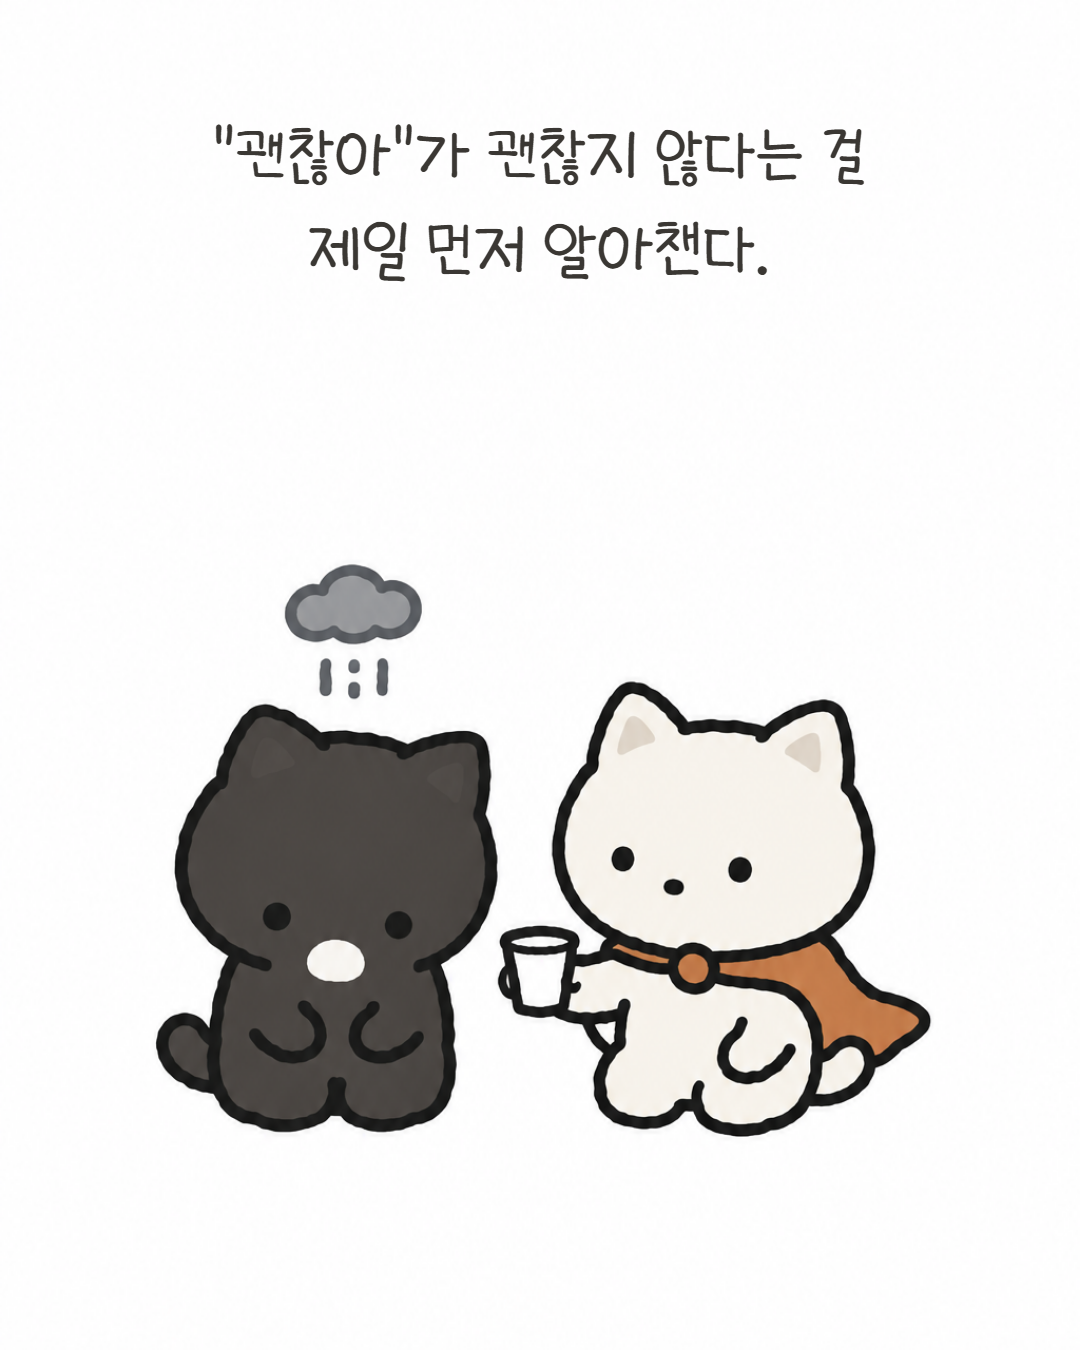
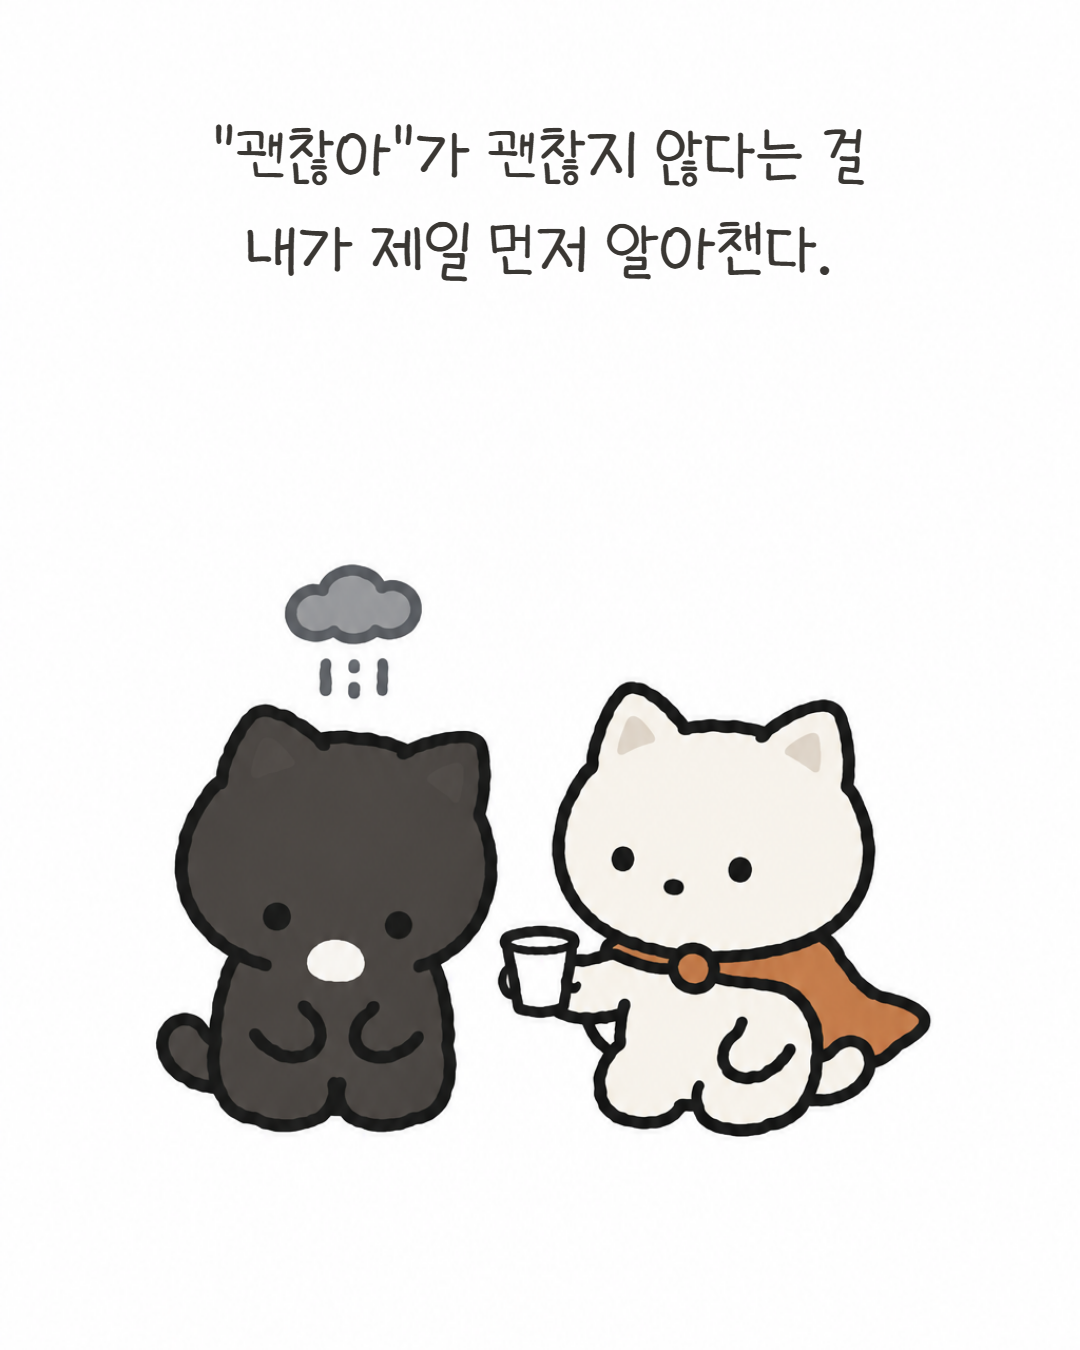
내레이션 1인칭으로 재작성, 이모지 전부 제거, 스킬에 규칙 추가

Changed region(s): [[0.2444, 0.1556, 0.7639, 0.2178]]

diff --git a/episodes/ep01/compose.html b/episodes/ep01/compose.html
@@ -31,41 +31,41 @@
 
 <section id="s1">
   <img src="img/cut1.png" alt="">
-  <p class="nar">이 사람들은 마음이 읽힌다.<br>상대가 말을 꺼내기 전에, 먼저.</p>
+  <p class="nar">나는 마음이 읽힌다.<br>상대가 말을 꺼내기 전에, 먼저.</p>
 </section>
 
 <section id="s2">
   <img src="img/cut2.png" alt="">
-  <p class="nar">"괜찮아"가 괜찮지 않다는 걸<br>제일 먼저 알아챈다.</p>
+  <p class="nar">"괜찮아"가 괜찮지 않다는 걸<br>내가 제일 먼저 알아챈다.</p>
 </section>
 
 <section id="s3">
   <img src="img/cut3.png" alt="">
-  <p class="nar">잔소리 안에 든 걱정까지 읽힌다.<br>그래서 그냥 "응" 하고 만다.</p>
+  <p class="nar">잔소리 안에 든 걱정까지 읽힌다.<br>그래서 나는 그냥 "응" 하고 만다.</p>
 </section>
 
 <section id="s4" class="dim">
   <img src="img/cut4.png" alt="">
-  <p class="nar">단톡방에 "ㅇㅇ" 두 글자가 오면<br>거기 담긴 마음까지 읽는다.</p>
+  <p class="nar">단톡방에 "ㅇㅇ" 두 글자가 오면<br>나는 거기 담긴 마음까지 읽는다.</p>
   <p class="mind" style="right:90px;top:330px;text-align:right">…화났나.<br>아까 그 말 때문인가.</p>
   <p class="mind" style="right:80px;bottom:60px;font-size:38px;color:#A69E93">(사실 아무것도 안 담겨 있음)</p>
 </section>
 
 <section id="s5" class="dim">
   <img src="img/cut5.png" alt="">
-  <p class="nar">동생은 말한다. "그냥 물어보면 되잖아."<br>그게 되면 초능력자가 아니지.</p>
+  <p class="nar">동생은 말한다. "그냥 물어보면 되잖아."<br>그게 되면 나는 초능력자가 아니지.</p>
 </section>
 
 <section id="s6" class="dim">
   <img src="img/cut6.png" alt="">
-  <p class="nar">남의 마음은 다 읽으면서<br>내 마음은 제일 늦게 읽는다.</p>
+  <p class="nar">남의 마음은 다 읽으면서<br>정작 내 마음은 제일 늦게 읽는다.</p>
   <p class="mind" style="left:760px;top:940px">나 지금…<br>괜찮은 건가</p>
 </section>
 
 <section id="s7">
   <img src="img/cut7.png" alt="">
-  <p class="nar">그래도 그 능력 덕분에,<br>누군가는 오늘 혼자가 아니었다.</p>
-  <p class="cta">당신 곁의 INFP를 태그해 주세요 🦸</p>
+  <p class="nar">그래도 내 능력 덕분에,<br>누군가는 오늘 혼자가 아니었다.</p>
+  <p class="cta">당신 곁의 INFP를 태그해 주세요</p>
 </section>
 
 <script>

diff --git a/episodes/ep01/align-compare.html b/episodes/ep01/align-compare.html
@@ -36,10 +36,10 @@
 </main>
 <script>
 const CUTS = [
-  ['1 초능력 설명', '', `<img src="img/cut1.png"><p class="nar">이 사람들은 마음이 읽힌다.<br>상대가 말을 꺼내기 전에, 먼저.</p>`],
-  ['3 장점 — 엄마 (긴 문장)', '', `<img src="img/cut3.png"><p class="nar">잔소리 안에 든 걱정까지 읽힌다.<br>그래서 그냥 "응" 하고 만다.</p>`],
-  ['4 공유 컷 (속마음 포함)', 'dim', `<img src="img/cut4.png"><p class="nar">단톡방에 "ㅇㅇ" 두 글자가 오면<br>거기 담긴 마음까지 읽는다.</p><p class="mind" style="right:90px;top:330px;text-align:right">…화났나.<br>아까 그 말 때문인가.</p><p class="mind" style="right:80px;bottom:60px;font-size:38px;color:#A69E93">(사실 아무것도 안 담겨 있음)</p>`],
-  ['7 마무리 + CTA', '', `<img src="img/cut7.png"><p class="nar">그래도 그 능력 덕분에,<br>누군가는 오늘 혼자가 아니었다.</p><p class="cta">당신 곁의 INFP를 태그해 주세요 🦸</p>`],
+  ['1 초능력 설명', '', `<img src="img/cut1.png"><p class="nar">나는 마음이 읽힌다.<br>상대가 말을 꺼내기 전에, 먼저.</p>`],
+  ['3 장점 — 엄마 (긴 문장)', '', `<img src="img/cut3.png"><p class="nar">잔소리 안에 든 걱정까지 읽힌다.<br>그래서 나는 그냥 "응" 하고 만다.</p>`],
+  ['4 공유 컷 (속마음 포함)', 'dim', `<img src="img/cut4.png"><p class="nar">단톡방에 "ㅇㅇ" 두 글자가 오면<br>나는 거기 담긴 마음까지 읽는다.</p><p class="mind" style="right:90px;top:330px;text-align:right">…화났나.<br>아까 그 말 때문인가.</p><p class="mind" style="right:80px;bottom:60px;font-size:38px;color:#A69E93">(사실 아무것도 안 담겨 있음)</p>`],
+  ['7 마무리 + CTA', '', `<img src="img/cut7.png"><p class="nar">그래도 내 능력 덕분에,<br>누군가는 오늘 혼자가 아니었다.</p><p class="cta">당신 곁의 INFP를 태그해 주세요</p>`],
 ];
 document.getElementById('cards').innerHTML = CUTS.map(([t, cls, html]) => `
 <div class="card"><h2>${t}</h2><div class="row">

diff --git a/episodes/ep01/fonts-compare.html b/episodes/ep01/fonts-compare.html
@@ -58,11 +58,11 @@ const FONTS = [
   ['배달의민족 주아 (대조군)', 'BMJua', 'OFL'],
 ];
 const CUT4 = `<img src="img/cut4.png" alt="">
-  <p class="nar">단톡방에 "ㅇㅇ" 두 글자가 오면<br>거기 담긴 마음까지 읽는다.</p>
+  <p class="nar">단톡방에 "ㅇㅇ" 두 글자가 오면<br>나는 거기 담긴 마음까지 읽는다.</p>
   <p class="mind" style="right:90px;top:330px;text-align:right">…화났나.<br>아까 그 말 때문인가.</p>
   <p class="mind" style="right:80px;bottom:60px;font-size:38px;color:#A69E93">(사실 아무것도 안 담겨 있음)</p>`;
 const CUT5 = `<img src="img/cut5.png" alt="">
-  <p class="nar">동생은 말한다. "그냥 물어보면 되잖아."<br>그게 되면 초능력자가 아니지.</p>`;
+  <p class="nar">동생은 말한다. "그냥 물어보면 되잖아."<br>그게 되면 나는 초능력자가 아니지.</p>`;
 document.getElementById('cards').innerHTML = FONTS.map(([name, fam, lic], i) => `
 <div class="card">
   <h2>${i+1}. ${name}<small>${fam} · ${lic}</small></h2>

diff --git a/assets/fonts.html b/assets/fonts.html
@@ -81,7 +81,7 @@ document.getElementById('cards').innerHTML = FONTS.map(([name, fam, lic, tw], i)
       <div class="fig2"><img src="${IMG}" alt=""></div>
     </div>
   </div>
-  <p class="sample">당신 곁의 INFP를 태그해 주세요. 그 사람은 오늘도 누군가의 하루를 조용히 구했을 거예요 🦸 0123456789 ?!</p>
+  <p class="sample">당신 곁의 INFP를 태그해 주세요. 그 사람은 오늘도 누군가의 하루를 조용히 구했을 거예요. 0123456789 ?!</p>
 </div>`).join('');
 </script>
 </body>

diff --git a/episodes/ep01/conti.md b/episodes/ep01/conti.md
@@ -5,12 +5,12 @@
 | # | 장면 | 내레이션 (상단) | 속마음 (캐릭터 옆, 회색) | 프롬프트 요점 |
 |---|---|---|---|---|
 | 표지 | 보리, 망토, POWER ACTIVATED 포즈 | 제목 3줄 + 부제 | — | 하단 중앙, 상단 55% 비움, high |
-| 1 | 보리 망토 착용. 정면 응시, 눈 주위 작은 반짝이 | 이 사람들은 마음이 읽힌다.<br>상대가 말을 꺼내기 전에, 먼저. | — | 하단, 상단 40% 비움 |
-| 2 | 먹물이 풀죽어 앉아 있고(작은 먹구름) 보리가 망토 차림으로 말없이 옆에 앉아 음료 하나를 건넴 | "괜찮아"가 괜찮지 않다는 걸<br>제일 먼저 알아챈다. | — | 두 캐릭터 하단, 컵 하나 |
-| 3 | 엄마 미숙이 팔짱 끼고 잔소리 자세, 보리(망토)는 고개 끄덕. 둘 사이 작은 하트 | 잔소리 안에 든 걱정까지 읽힌다.<br>그래서 그냥 "응" 하고 만다. | — | 미숙 1.2배, 웃는 눈 |
-| 4 | **공유 컷.** 보리(망토 없음) 바닥에 엎드려 폰을 쥐고 있음. 머리 위 작은 먹구름, 땀방울 | 단톡방에 "ㅇㅇ" 두 글자가 오면<br>거기 담긴 마음까지 읽는다. | …화났나.<br>아까 그 말 때문인가.<br>(사실 아무것도 안 담겨 있음) | 저채도, 폰 화면 비움 |
-| 5 | 동생 콩이 과자를 먹으며 태평하게 서 있고, 보리는 축 처져 땀방울 | 동생은 말한다. "그냥 물어보면 되잖아."<br>그게 되면 초능력자가 아니지. | — | 콩 0.8배, 정수리 털 3가닥 |
-| 6 | 보리 혼자 웅크려 앉음. 먹구름, 눈물 한 줄 | 남의 마음은 다 읽으면서<br>내 마음은 제일 늦게 읽는다. | 나 지금…<br>괜찮은 건가 | 저채도, 여백 많이 |
-| 7 | 보리(망토) + 먹물 나란히 앉아 뒷모습 반쯤, 위에 작은 하트·반짝이 | 그래도 그 능력 덕분에,<br>누군가는 오늘 혼자가 아니었다. | 당신 곁의 INFP를 태그해 주세요 🦸 | 포인트 컬러 복귀 |
+| 1 | 보리 망토 착용. 정면 응시, 눈 주위 작은 반짝이 | 나는 마음이 읽힌다.<br>상대가 말을 꺼내기 전에, 먼저. | — | 하단, 상단 40% 비움 |
+| 2 | 먹물이 풀죽어 앉아 있고(작은 먹구름) 보리가 망토 차림으로 말없이 옆에 앉아 음료 하나를 건넴 | "괜찮아"가 괜찮지 않다는 걸<br>내가 제일 먼저 알아챈다. | — | 두 캐릭터 하단, 컵 하나 |
+| 3 | 엄마 미숙이 팔짱 끼고 잔소리 자세, 보리(망토)는 고개 끄덕. 둘 사이 작은 하트 | 잔소리 안에 든 걱정까지 읽힌다.<br>그래서 나는 그냥 "응" 하고 만다. | — | 미숙 1.2배, 웃는 눈 |
+| 4 | **공유 컷.** 보리(망토 없음) 바닥에 엎드려 폰을 쥐고 있음. 머리 위 작은 먹구름, 땀방울 | 단톡방에 "ㅇㅇ" 두 글자가 오면<br>나는 거기 담긴 마음까지 읽는다. | …화났나.<br>아까 그 말 때문인가.<br>(사실 아무것도 안 담겨 있음) | 저채도, 폰 화면 비움 |
+| 5 | 동생 콩이 과자를 먹으며 태평하게 서 있고, 보리는 축 처져 땀방울 | 동생은 말한다. "그냥 물어보면 되잖아."<br>그게 되면 나는 초능력자가 아니지. | — | 콩 0.8배, 정수리 털 3가닥 |
+| 6 | 보리 혼자 웅크려 앉음. 먹구름, 눈물 한 줄 | 남의 마음은 다 읽으면서<br>정작 내 마음은 제일 늦게 읽는다. | 나 지금…<br>괜찮은 건가 | 저채도, 여백 많이 |
+| 7 | 보리(망토) + 먹물 나란히 앉아 뒷모습 반쯤, 위에 작은 하트·반짝이 | 그래도 내 능력 덕분에,<br>누군가는 오늘 혼자가 아니었다. | 당신 곁의 INFP를 태그해 주세요 | 포인트 컬러 복귀 |
 
-톤: 1–3 밝음 → 4–6 저채도 → 7 망토 복귀. 말풍선 없음, MBTI는 표지 부제와 7컷 CTA에만.
+톤: 1–3 밝음 → 4–6 저채도 → 7 망토 복귀. 말풍선 없음, 이모지 없음, 내레이션·속마음은 1인칭. MBTI는 표지 부제와 7컷 CTA에만.

diff --git a/.claude/skills/make-episode/SKILL.md b/.claude/skills/make-episode/SKILL.md
@@ -12,6 +12,8 @@ description: 「당신은 약간 초능력자?」 에피소드 1편 제작 — M
 - **제목** = 그 유형의 통용되는 단점을 능력처럼 바꾼 후킹 카피. 형식 `[…] 초능력자`. 예: INFP 「알고 싶지 않은 마음까지 읽는 초능력자」. 시리즈명 「당신은 약간 초능력자?」는 표지에 넣지 않는다.
 - **부제** = `- INFP -` 소문자 크기로 제목 아래.
 - 내용은 해당 유형 독자가 "이거 나잖아"라고 느껴야 한다. 유형 밈이 아니라 **구체적 상황**(약치기그림식)으로 쓴다.
+- 내레이션·속마음은 **1인칭**("나는 …"). 3인칭 설명("이 유형은 …")으로 쓰지 않는다. CTA만 독자에게 말한다.
+- **이모지 금지** (컷·캡션·CTA 전부).
 - **표지 + 7컷 = 8장** (인스타 상한).
 
 | 컷 | 역할 | 비고 |

diff --git a/docs/research/01-genre-analysis.md b/docs/research/01-genre-analysis.md
@@ -40,7 +40,7 @@
 | 3 | **반전 선언** — 초능력 재해석 | "그건 타인의 감정을 읽는 초능력이야" |
 | 4 | 초능력의 실제 발동 장면 (밝은 면) | 말없이 힘든 친구를 알아채고 옆에 앉는 장면 |
 | 5 | 힐링 마무리 — 위로 한 줄 | "당신 덕분에 누군가는 혼자가 아니었다" |
-| 6 | CTA | "당신 주변의 이 초능력자를 태그해 주세요 🦸" |
+| 6 | CTA | "당신 주변의 이 초능력자를 태그해 주세요" |
 
 공감 최고조(2컷)까지는 약치기그림식 **정밀한 상황 묘사**, 반전 이후는 서늘한여름밤식 **따뜻한 문장**으로 톤을 전환하는 것이 핵심.
 
